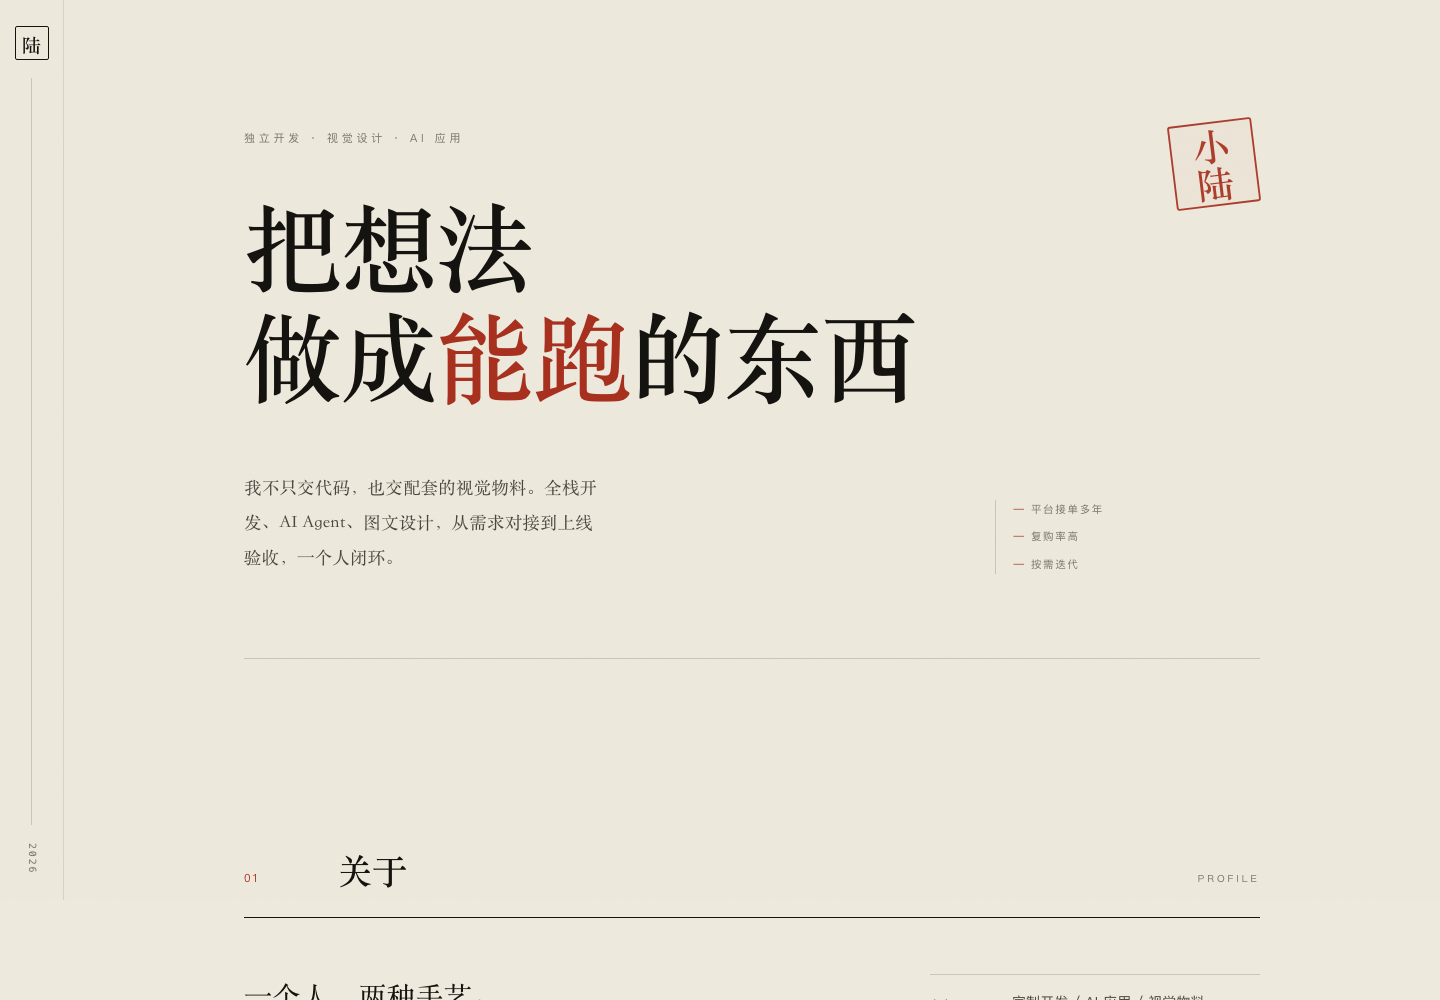
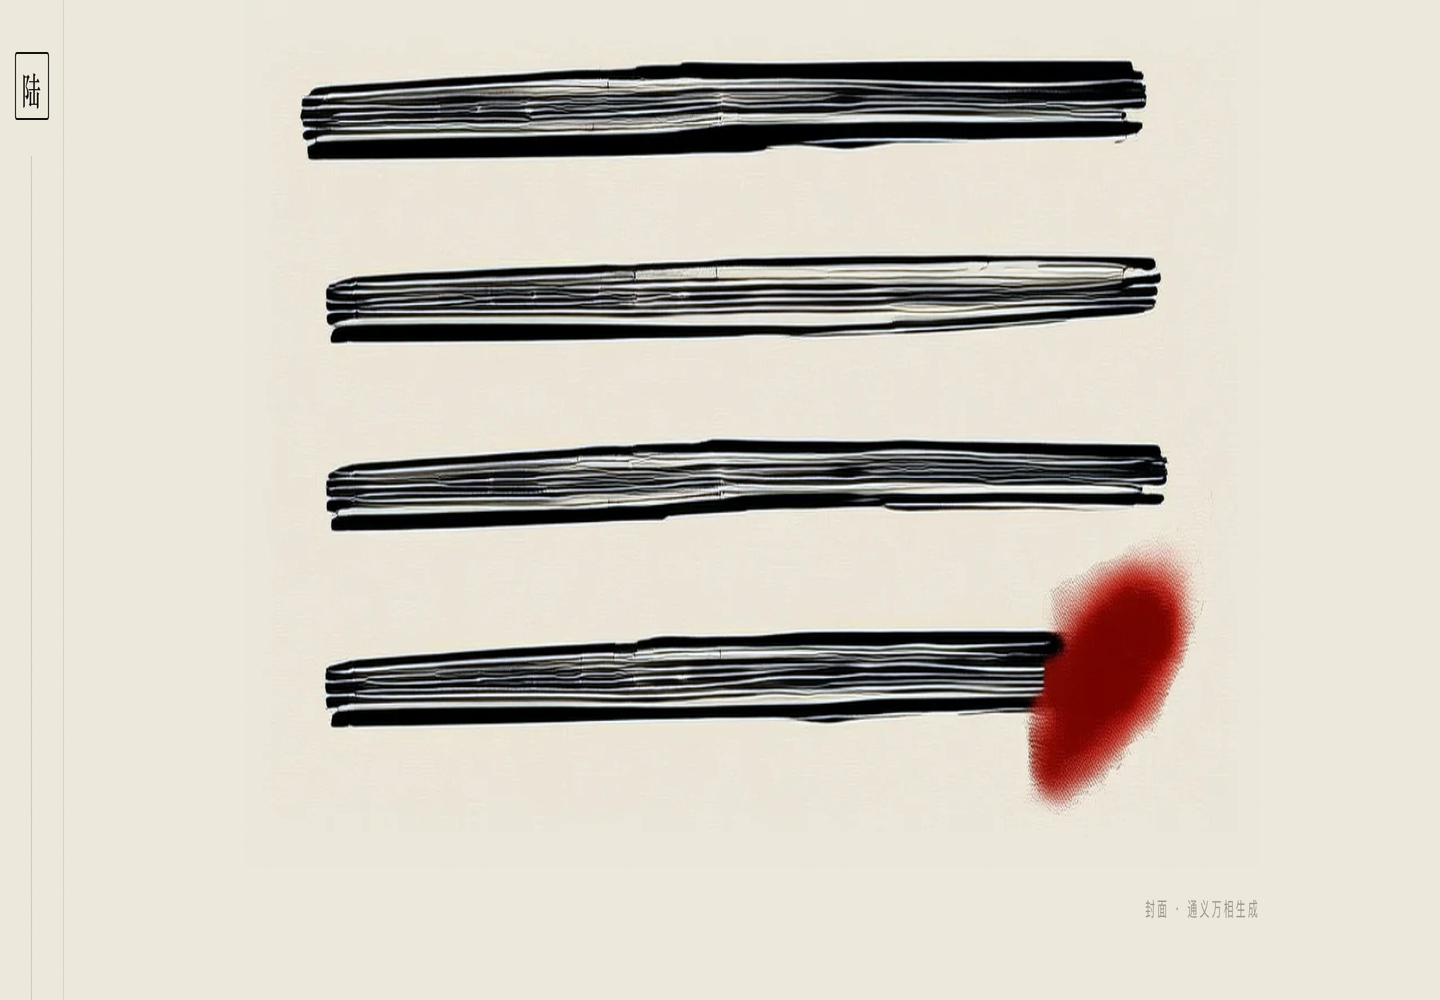
开场图：通义万相生成的墨迹封面 + og:image

diff --git a/index.html b/index.html
@@ -10,6 +10,9 @@
 <meta property="og:type" content="website">
 <meta property="og:title" content="小陆的全栈工坊 — 全栈开发 · AI Agent · 图文视觉">
 <meta property="og:description" content="从一行代码到一张海报：定制开发、AI 应用、视觉物料，一个人闭环交付。">
+<meta property="og:image" content="https://47.117.247.11/shop/assets/frontis.jpg">
+<meta property="og:image:width" content="1800">
+<meta property="og:image:height" content="770">
 <link rel="stylesheet" href="/shop/assets/style.css">
 </head>
 <body>
@@ -23,6 +26,15 @@
 </header>
 
 <main id="top">
+
+  <!-- ───────────── 头版图 ───────────── -->
+  <figure class="frontis">
+    <picture>
+      <source srcset="/shop/assets/frontis.webp" type="image/webp">
+      <img src="/shop/assets/frontis.jpg" alt="四道横向墨迹收尾于一抹朱砂" width="1800" height="770" fetchpriority="high" decoding="async">
+    </picture>
+    <figcaption class="mono">封面 · 通义万相生成</figcaption>
+  </figure>
 
   <!-- ───────────── 头版 ───────────── -->
   <section class="hero">

diff --git a/assets/style.css b/assets/style.css
@@ -76,6 +76,14 @@ main > section{ max-width:var(--maxw); margin:0 auto; padding:0 var(--pad); }
 .block{ padding-top:clamp(60px,8.2vw,108px); padding-bottom:clamp(60px,8.2vw,108px); }
 
 /* ── 头版 ── */
+.frontis{ margin:0; max-width:var(--maxw); margin-inline:auto; padding:0 var(--pad); }
+.frontis img{ display:block; width:100%; height:auto; }
+.frontis figcaption{
+  margin:10px 0 0; text-align:right;
+  font-size:.62rem; letter-spacing:.22em; text-transform:uppercase;
+  color:rgba(20,19,15,.38);
+}
+
 .hero{
   position:relative;
   padding-top:clamp(64px,11vw,128px);
